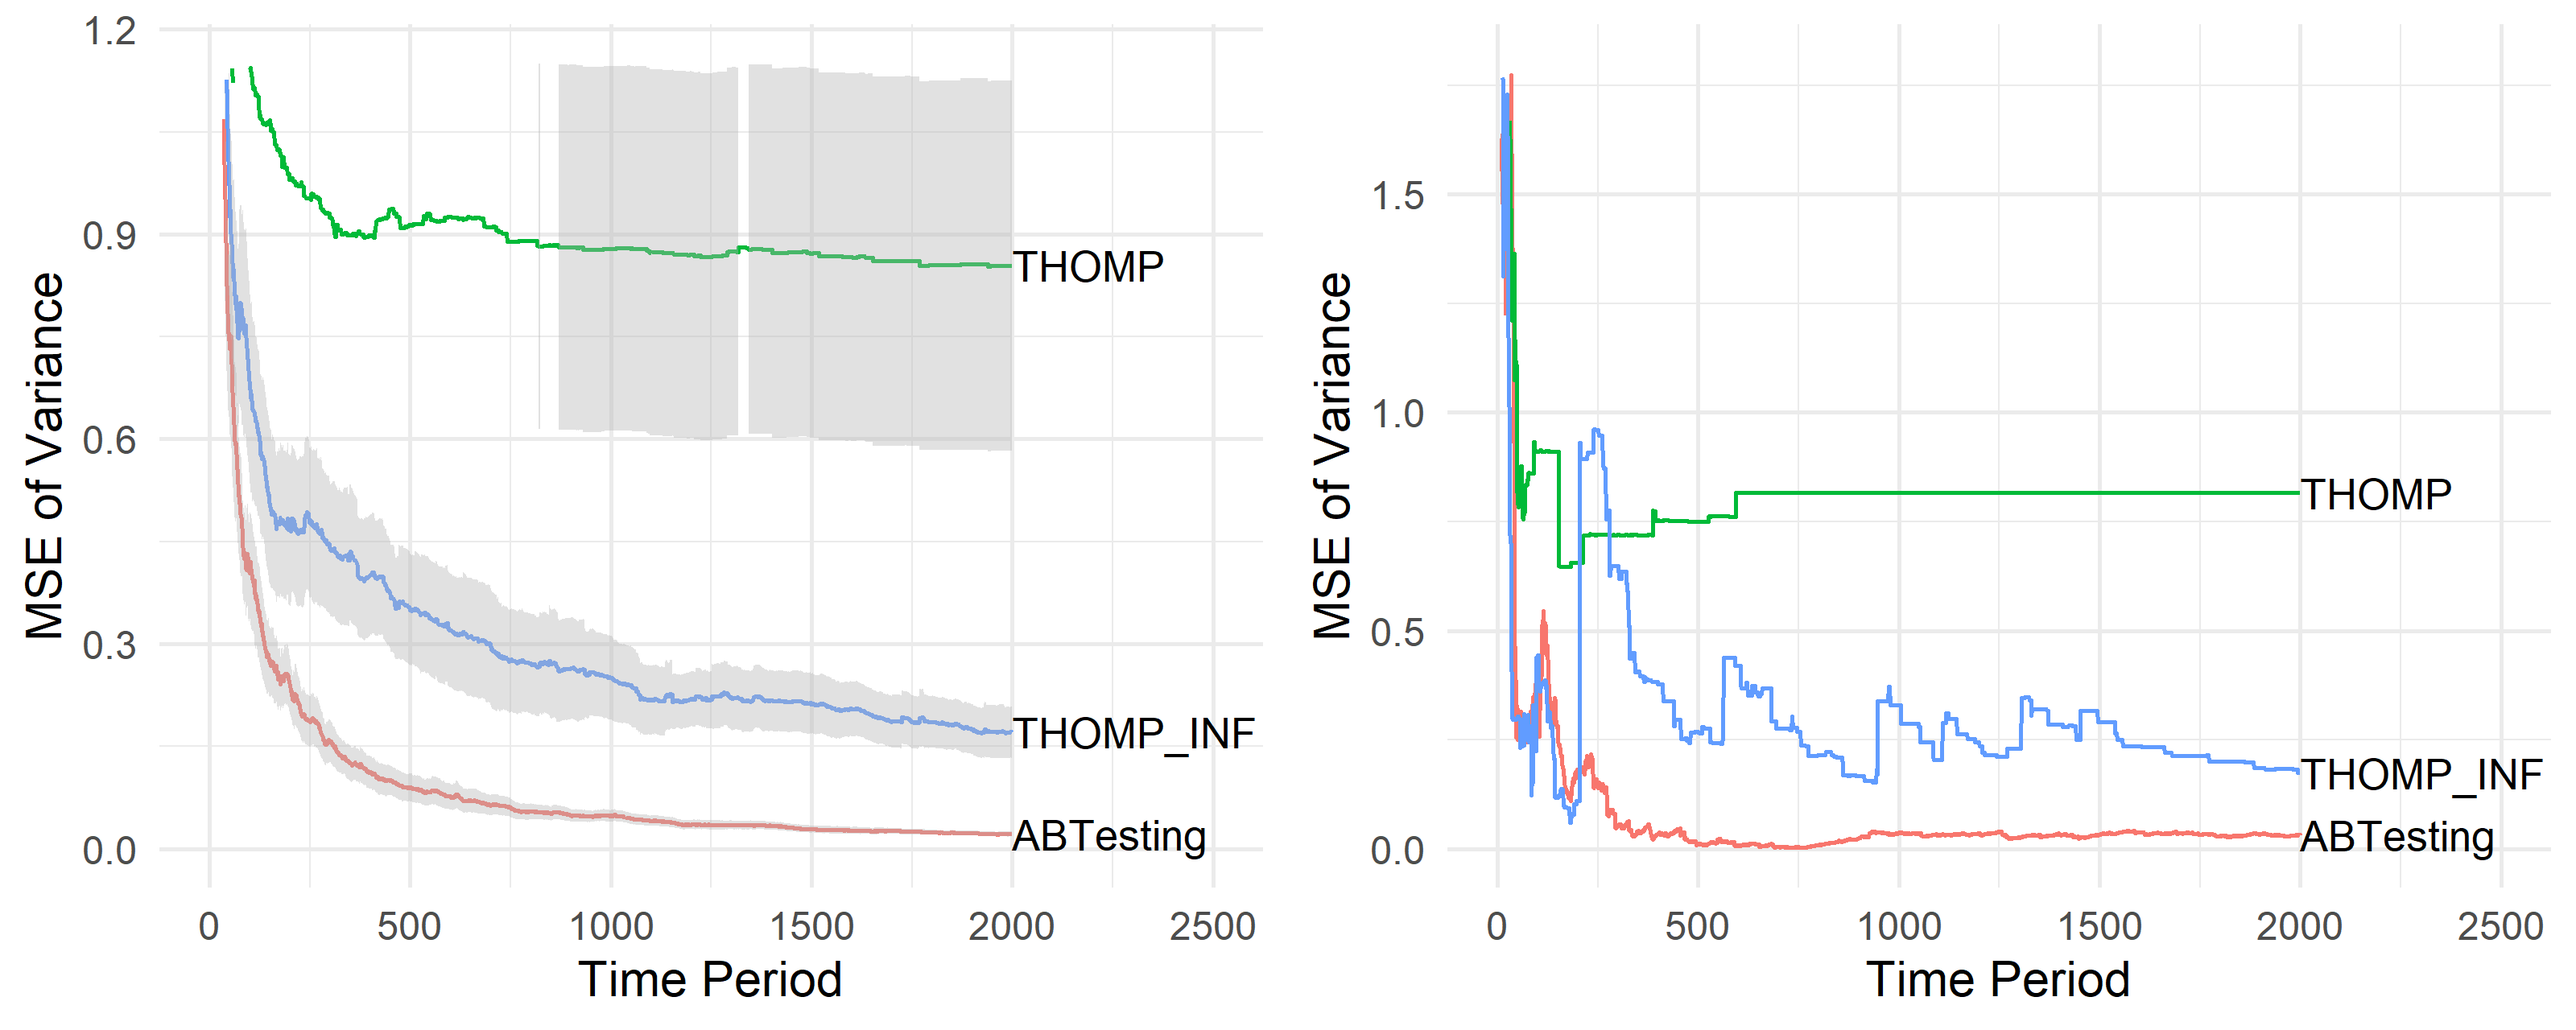
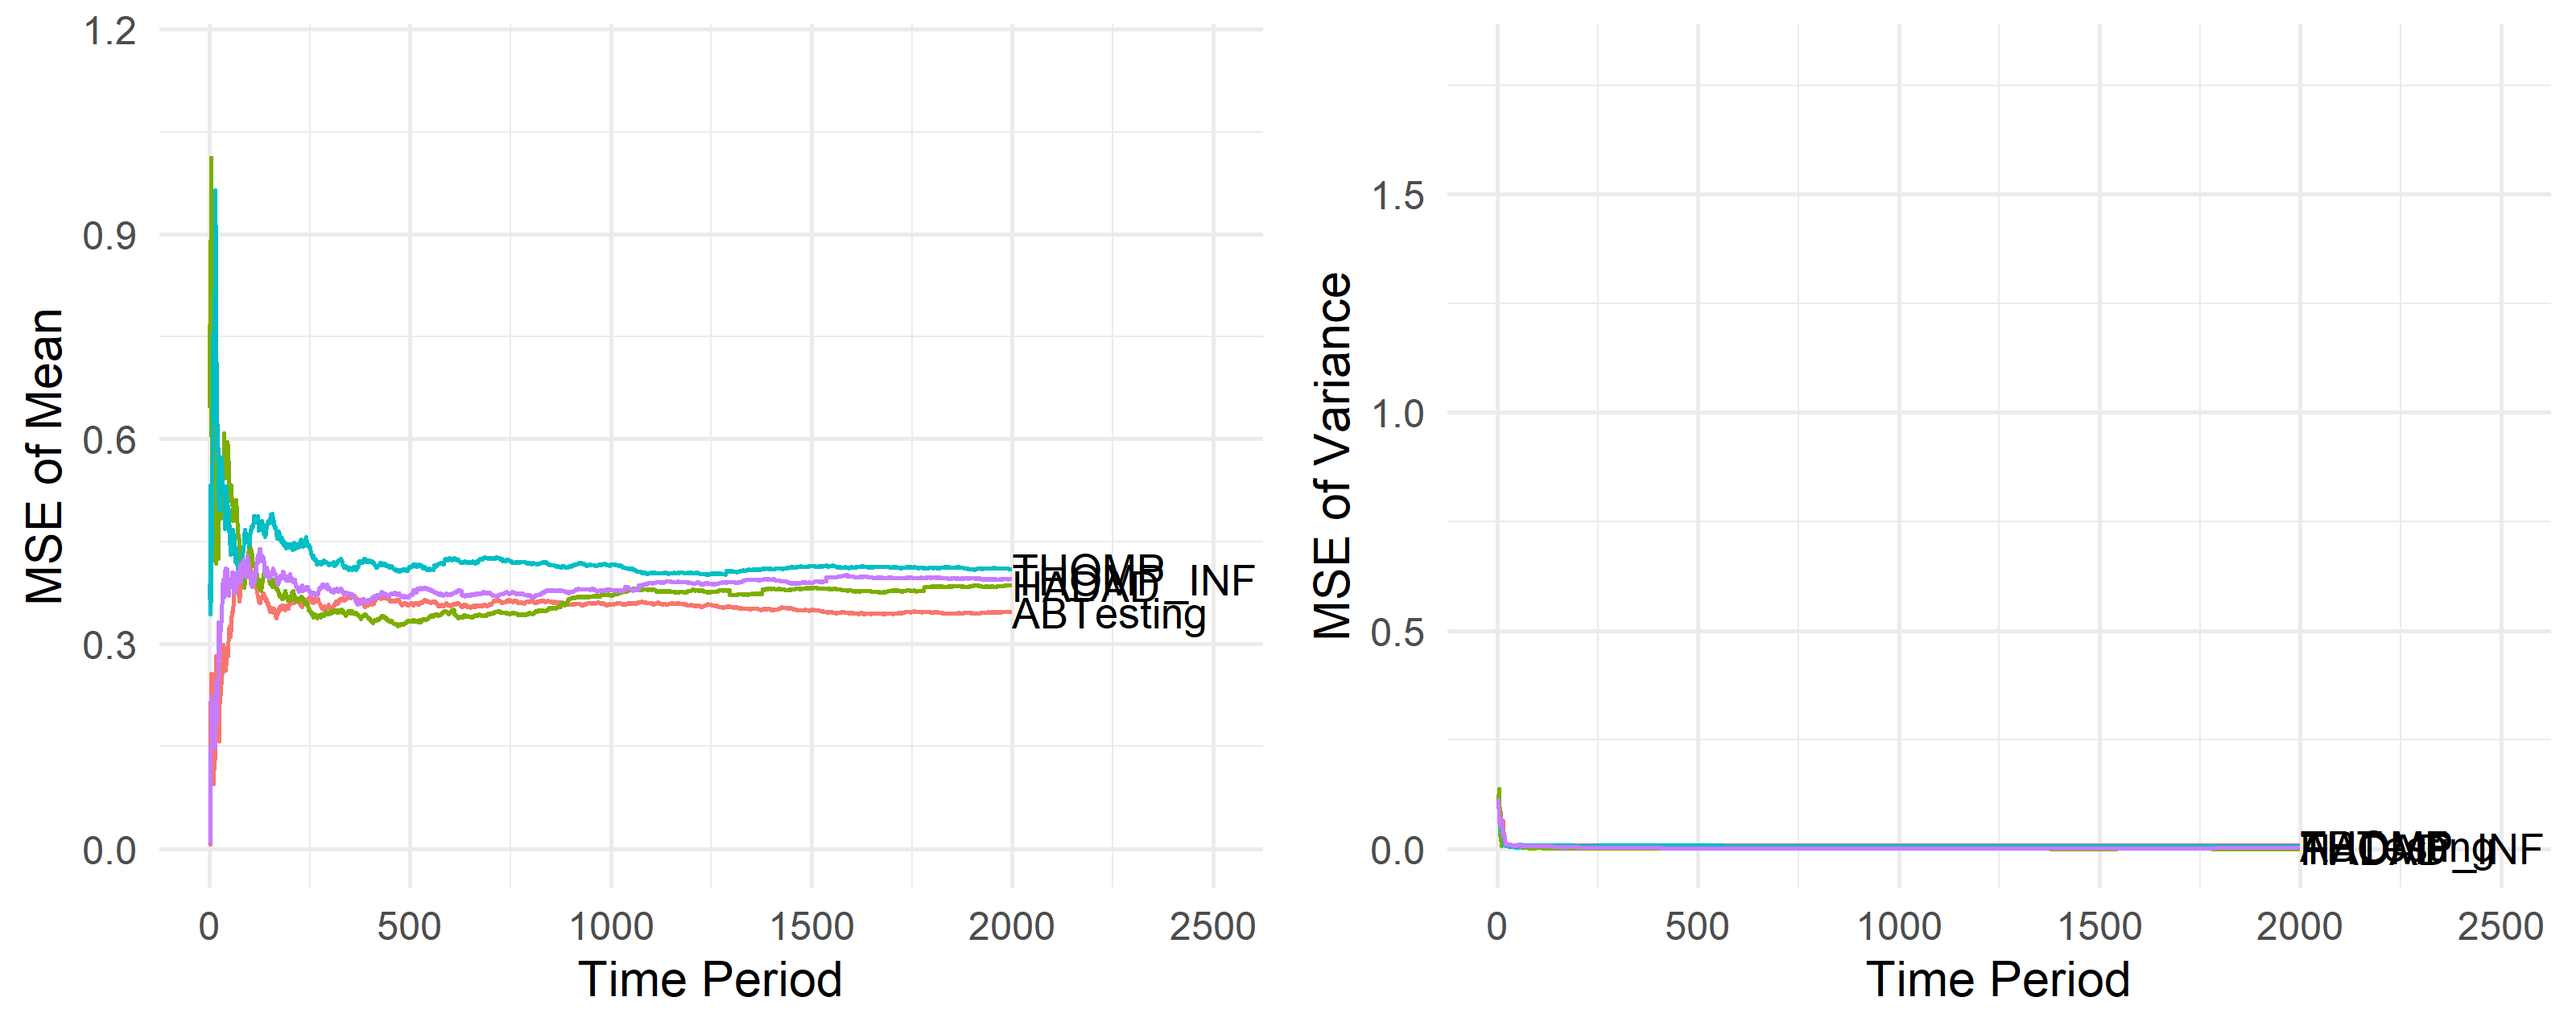
changing means of hsn and lsn

diff --git a/run_sim.py b/run_sim.py
@@ -10,10 +10,10 @@ def run_sim(file_path, true_means, true_vars=None, dist_type='Normal', xi=0.8):
 
     estimator_list=['aipw', 'eval_aipw', 'ipw']
 
-    sim = BanditSimulation(num_ite=10, arm_means=true_means,
+    sim = BanditSimulation(num_ite=100, arm_means=true_means,
                            arm_vars=true_vars,
                            eps_inf=0.2,
-                           horizon=200,
+                           horizon=2000,
                            alg_list=alg_list,
                            estimator_list=None,
                            mse_calc=True,
@@ -48,11 +48,11 @@ if __name__ == '__main__':
         true_vars = [2.84, 1.97, 2.62, 1, 2.06]
         a = run_sim('analysis/output/agg_analysis_default_100_20000.csv', true_means, true_vars=true_vars, dist_type='Normal')
     if hsn:
-        true_means = [1, 2, 3]
+        true_means = [1, 1.1, 1.2]
         true_vars = [1/3, 1/3, 1/3]
         run_sim('analysis/output/non_agg_hsn_100_2000.csv', true_means, true_vars=true_vars, dist_type='HSN')
     if lsn:
-        true_means = [1, 2, 3]
+        true_means = [1, 1.5, 2]
         true_vars = [1/3, 1/3, 1/3]
         run_sim('analysis/output/non_agg_lsn_100_2000.csv', true_means, true_vars=true_vars, dist_type='LSN')
     if regret_order:

diff --git a/bandit.py b/bandit.py
@@ -44,10 +44,8 @@ class Bandit:
         if self.dist_type == "Normal":
             # Generate reward from that arm
             reward = np.random.normal(self.arm_means[arm_num], sqrt(self.arm_vars[arm_num]))
-        if self.dist_type == "HSN":
-            reward = 0.5 * self.arm_means[arm_num] + 0.5 + np.random.uniform(-1, 1)
-        if self.dist_type == "LSN":
-            reward = 0.1 * self.arm_means[arm_num] + 0.9 + np.random.uniform(-1, 1)
+        if self.dist_type == "HSN" or self.dist_type == "LSN":
+            reward = self.arm_means[arm_num]+ np.random.uniform(-1, 1)
         # Do all updates after the arm is pulled
 
         if prop_lis is not None:
